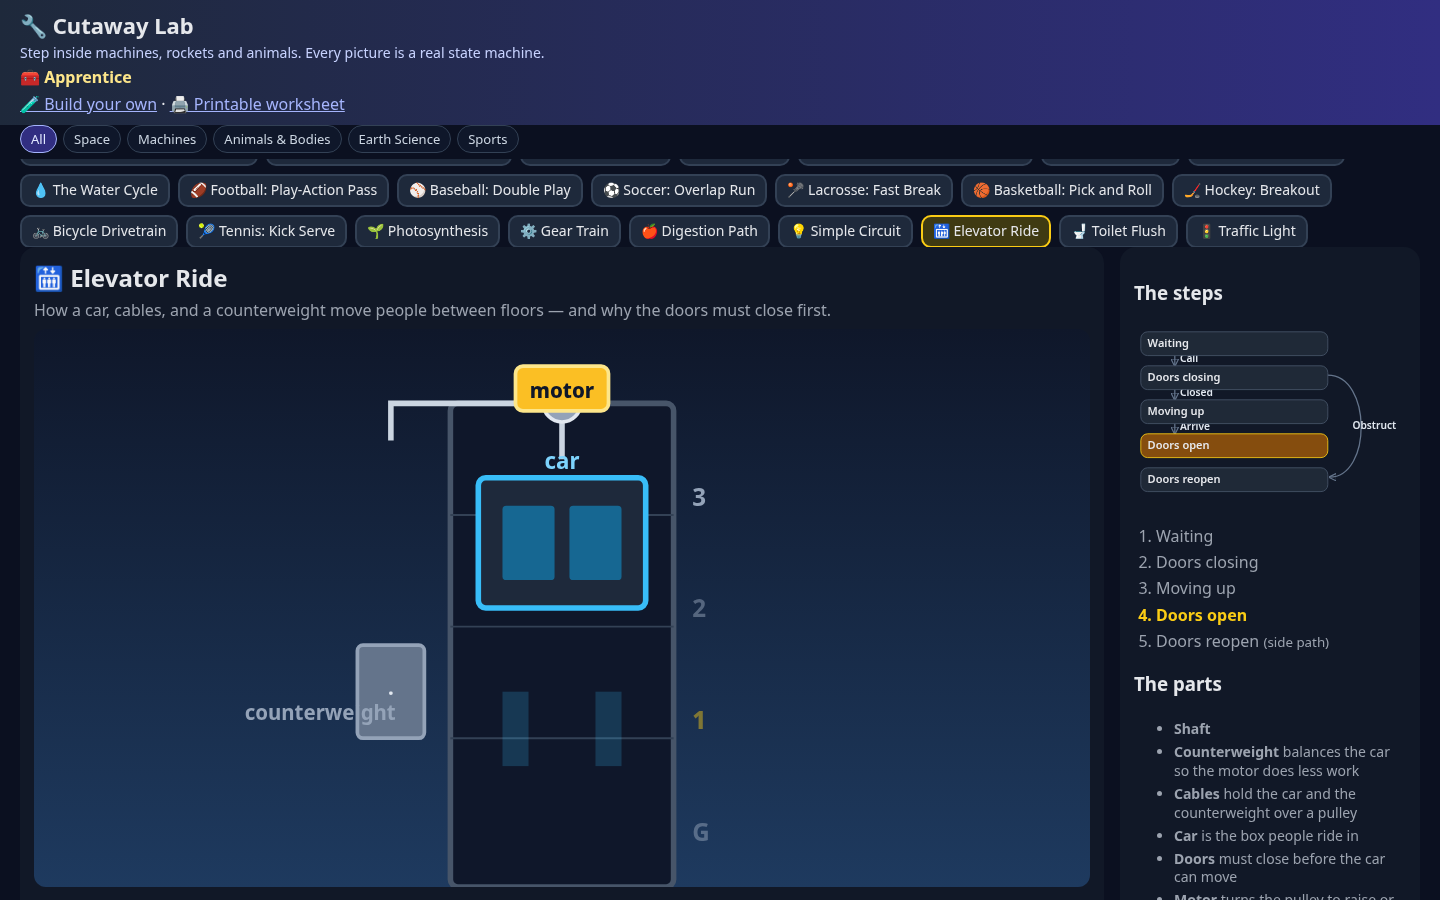
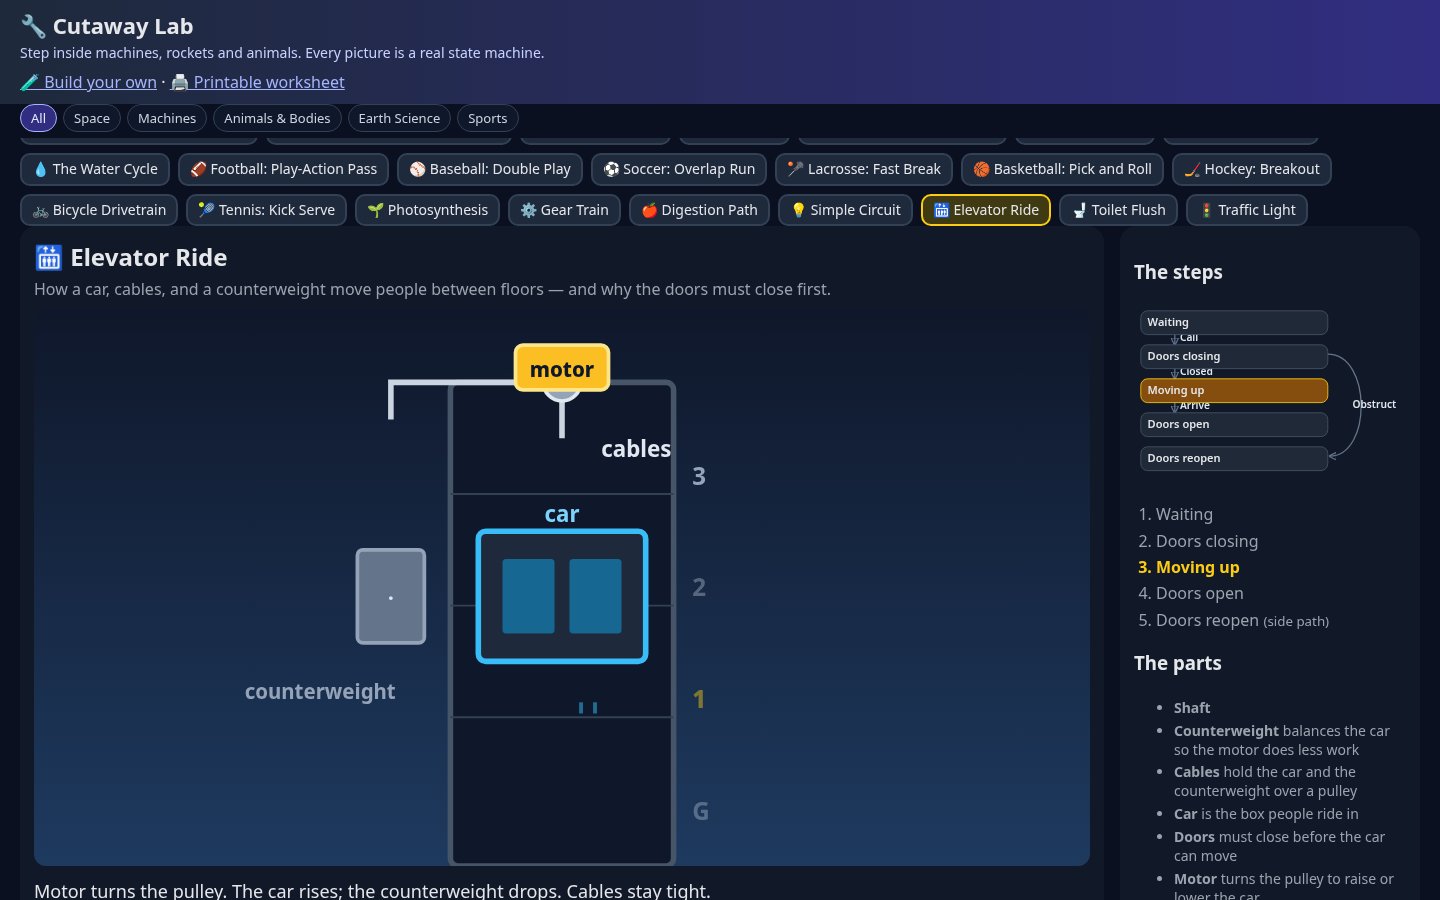
v1.0: elevator cables + thermostat room captions

diff --git a/machines/elevator.js b/machines/elevator.js
@@ -11,6 +11,8 @@ export default {
       svg: '<text x="70" y="210" text-anchor="middle" fill="#94a3b8" font-size="11" font-weight="700">counterweight</text>' },
     { id: 'cable', label: 'Cables', job: 'hold the car and the counterweight over a pulley',
       svg: '<path d="M108 60 V40 H200 V70" stroke="#cbd5e1" stroke-width="3" fill="none"/><circle cx="200" cy="40" r="10" fill="#94a3b8" stroke="#e2e8f0" stroke-width="2"/>' },
+    { id: 'lblCable', label: 'Cable label',
+      svg: '<text x="240" y="80" text-anchor="middle" fill="#e2e8f0" font-size="12" font-weight="700">cables</text>' },
     { id: 'car', label: 'Car', job: 'is the box people ride in',
       svg: '<rect x="155" y="180" width="90" height="70" rx="4" fill="#1e293b" stroke="#38bdf8" stroke-width="3"/><rect x="168" y="195" width="28" height="40" rx="2" fill="#0ea5e9" opacity=".5"/><rect x="204" y="195" width="28" height="40" rx="2" fill="#0ea5e9" opacity=".5"/><text x="200" y="175" text-anchor="middle" fill="#7dd3fc" font-size="12" font-weight="700">car</text>', explode: [50, 0] },
     { id: 'doors', label: 'Doors', job: 'must close before the car can move',

diff --git a/machines/thermostat.js b/machines/thermostat.js
@@ -7,6 +7,8 @@ export default {
       svg: '<rect x="100" y="60" width="200" height="220" rx="16" fill="#1e293b" stroke="#94a3b8" stroke-width="3"/>' },
     { id: 'display', label: 'Display', job: 'shows the current temperature and your setpoint',
       svg: '<rect x="120" y="90" width="160" height="70" rx="8" fill="#0f172a" stroke="#38bdf8" stroke-width="2"/><text x="200" y="135" text-anchor="middle" fill="#e2e8f0" font-size="28" font-weight="800">68°</text>', explode: [0, -40] },
+    { id: 'lblRoom', label: 'Room label',
+      svg: '<text x="200" y="60" text-anchor="middle" fill="#93c5fd" font-size="12" font-weight="700">room</text>' },
     { id: 'setpoint', label: 'Setpoint', job: 'is the temperature you asked for',
       svg: '<text x="200" y="185" text-anchor="middle" fill="#facc15" font-size="14" font-weight="700">set 70°</text>', explode: [0, 0] },
     { id: 'sensor', label: 'Temp sensor', job: 'measures how warm the room is right now',
